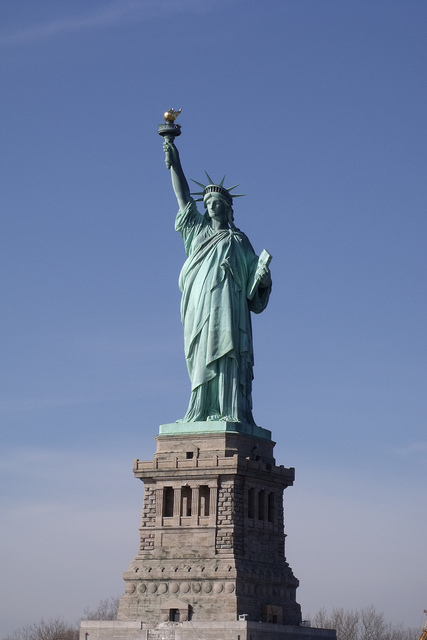
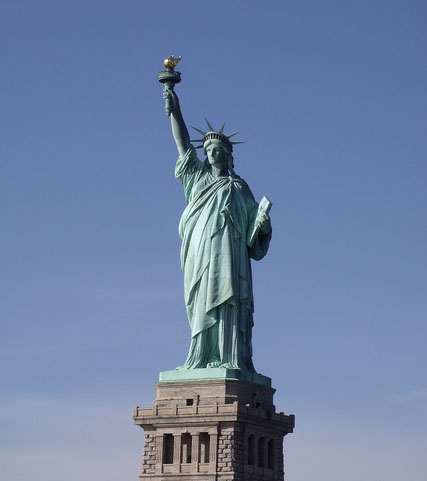
State flag zoom

Changed region(s): [[0.0, 0.0936, 1.0, 1.0], [0.0609, 0.6861, 0.1218, 0.7173]]

diff --git a/index.html b/index.html
@@ -249,26 +249,77 @@
 			<section>
 				<h2>Built for New York State</h2>
 				<style>
-				.collage > div {
-					float: left;
-					width: 30%;
+				.collage {
+					position: relative;
 				}
 
-				.collage .one {
+				.collage > div {
 					float: left;
+					height: 10em;
+					line-height: 10em;
 				}
+
+				.collage img {
+					vertical-align: middle;
+				}
+
+				.collage small {
+					position: relative;
+					font-size: 50%;
+				}
+
+				.collage .img-flag {
+					position: relative;
+					width: 33%;
+				}
+
+				.collage .img-statue {
+					width: 35%;
+				}
+
+				.collage .img-capitol {
+					width: 32%;
+				}
+
+				.collage .img-capitol small {
+					top: -3.2em;
+				}
+
+				.img-flag-outline {
+					position: absolute;
+					top: 0em;
+					left: 0em;
+				}
+
+				.img-flag-fuzzy,
+				.img-flag-clear {
+					position: absolute;
+					top: 1em;
+					left: 2em;
+				}
+
+				/* Flag zoom area proportions: 84x38; */
 				</style>
 				<div class="collage">
-					<div class="one">
+					<div class="img-flag">
 						<img src="img/Flag_of_New_York.small.png" alt="New York State Flag">
+						<div class="fragment img-flag-outline" data-fragment-index="0">
+							<img src="img/Flag_of_New_York.small_outline.png" alt="New York State Flag">
+						</div>
 					</div>
-					<div class="two">
-						<img src="img/capitol.jpg" alt="New York State Capitol building">
-						<small>Photo credit: <a href="http://www.flickr.com/photos/jstephenconn/5425778154/">J. Stephen Conn</a>
-					</div>
-					<div class="three">
+					<div class="img-statue">
 						<img src="img/statue-of-liberty.jpg" alt="Statue of Liberty">
 						<small>Photo credit: <a href="http://www.flickr.com/photos/hesterr/6775796722/">Hesterr</a></small>
+					</div>
+					<div class="img-capitol">
+						<img src="img/capitol_cropped.jpg" alt="New York State Capitol building">
+						<small>Photo credit: <a href="http://www.flickr.com/photos/jstephenconn/5425778154/">J. Stephen Conn</a></small>
+					</div>
+					<div class="fragment img-flag-fuzzy" data-fragment-index="1">
+						<img src="img/flag_big_fuzzy.jpg" alt="New York State Flag">
+					</div>
+					<div class="fragment img-flag-clear" data-fragment-index="2">
+						<img src="img/flag_big_clear.png" alt="New York State Flag">
 					</div>
 				</div>
 				<aside class="notes">
